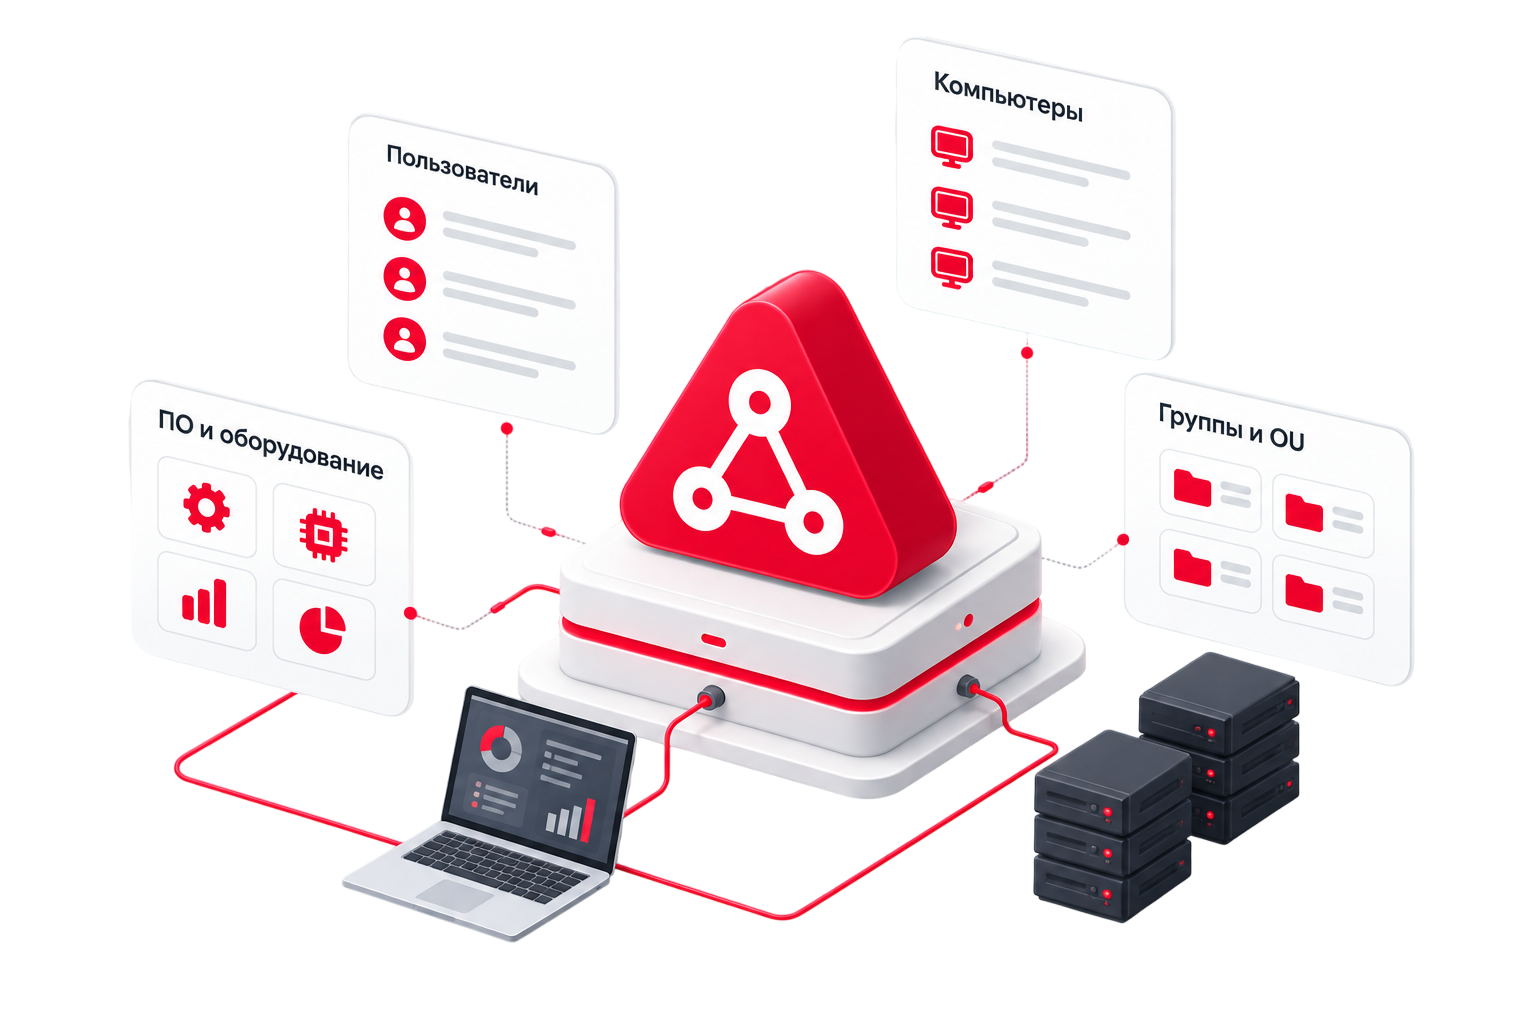
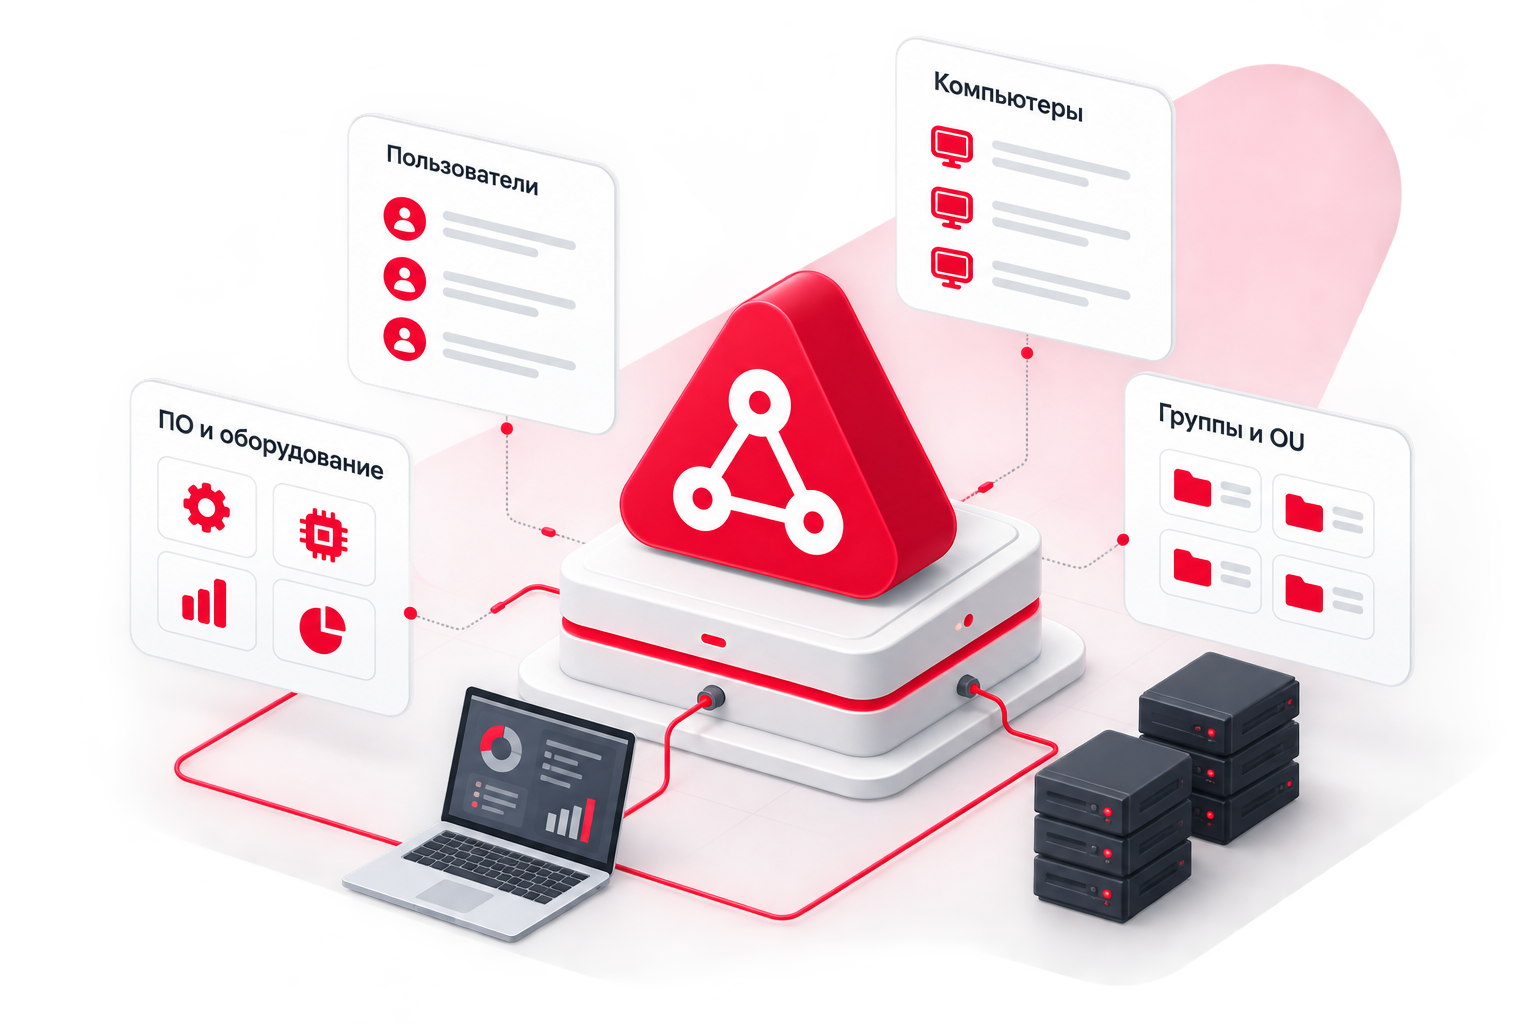
AD landing: swap hero to ChatGPT transparent PNG

diff --git a/istochniki/active-directory/index.html b/istochniki/active-directory/index.html
@@ -1261,7 +1261,7 @@
           <div class="hero__visual">
             <img
               class="hero__img"
-              src="assets/hero-ad.png?v=3"
+              src="assets/hero-ad.png?v=4"
               width="1536"
               height="1024"
               alt="Инвентаризация Active Directory в ИТМен: пользователи, компьютеры, ПО и группы OU"
